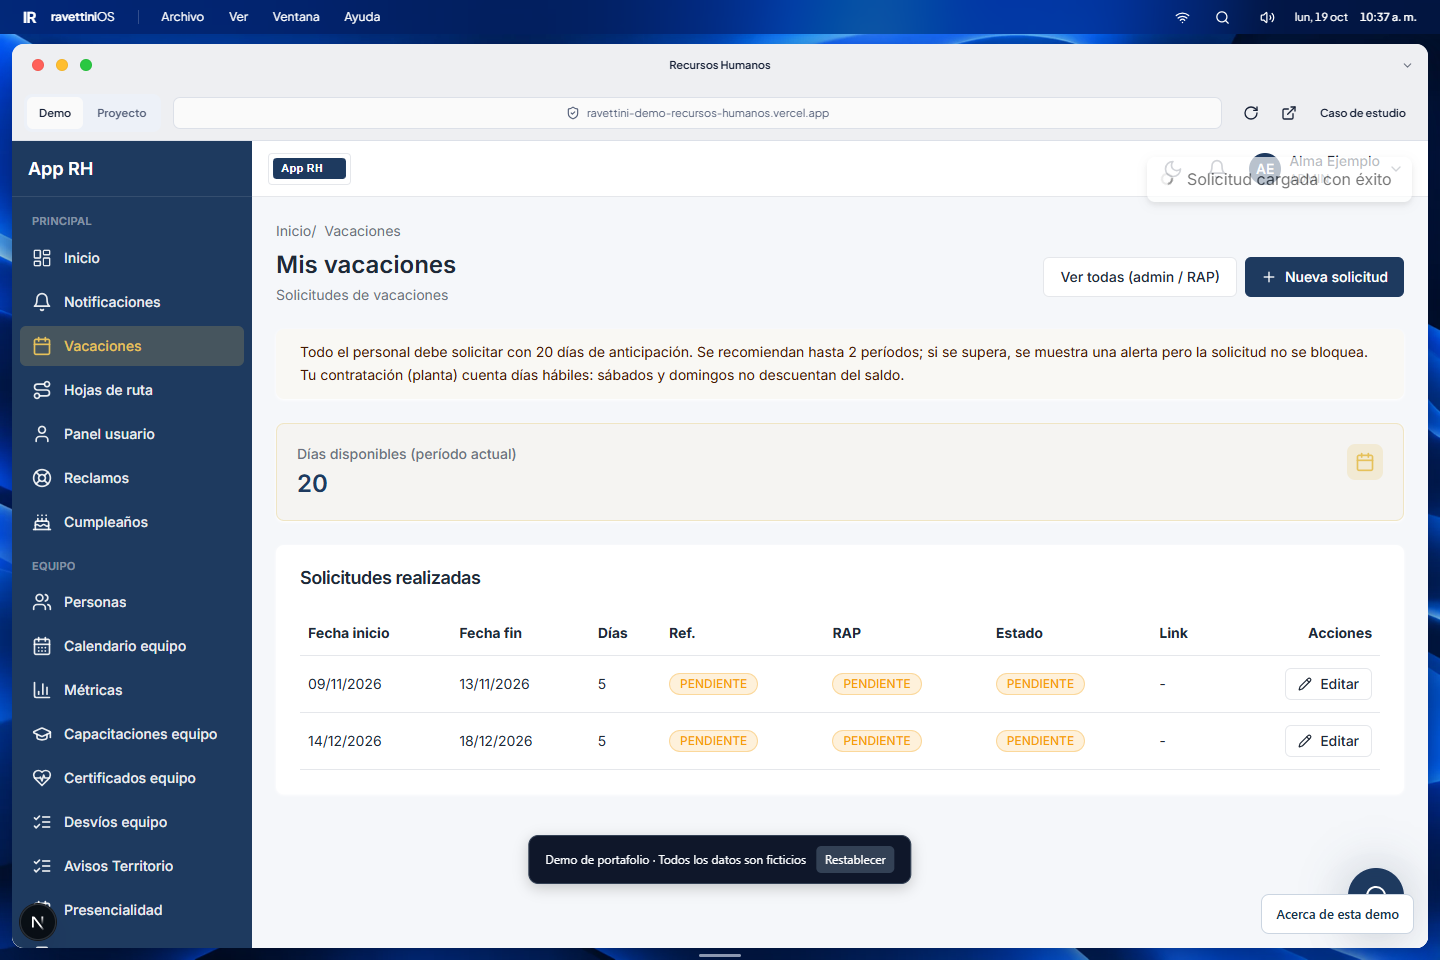
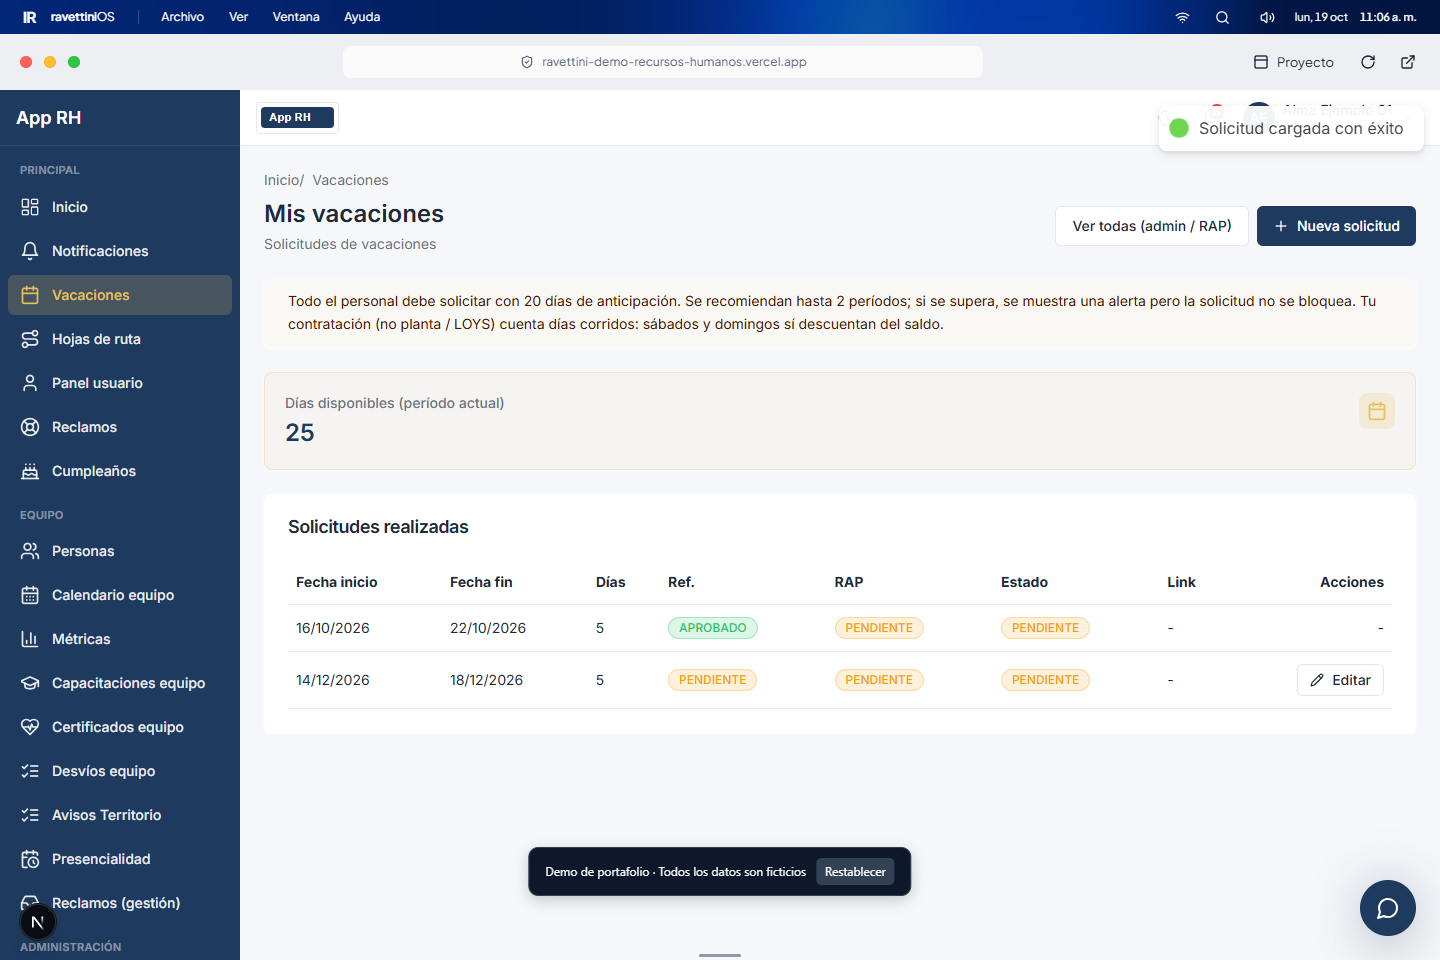
Expand demo browsers with unified macOS window chrome

diff --git a/app/os.css b/app/os.css
@@ -578,49 +578,35 @@
   min-height: 0;
   background: var(--os-surface);
 }
+.os-window--browser .os-window-bar {
+  height: 56px;
+  min-height: 56px;
+  gap: 24px;
+}
+.project-browser-chrome { flex: 1; min-width: 0; }
 .project-browser-toolbar {
   display: flex;
   align-items: center;
-  flex: none;
-  gap: 12px;
-  padding: 8px 12px;
-  border-bottom: 1px solid var(--os-line);
-  background: var(--os-chrome);
-}
-.project-browser-views {
-  display: flex;
-  padding: 3px;
-  gap: 2px;
-  background: var(--os-soft);
-  border-radius: 8px;
-}
-.project-browser-views button {
-  min-height: 32px;
-  padding: 6px 12px;
-  border-radius: 6px;
-  color: var(--os-muted);
-  background: transparent;
-  font-size: 11px;
-  font-weight: 600;
-}
-.project-browser-views button[aria-pressed="true"] {
-  background: var(--os-surface);
-  color: var(--os-ink);
+  justify-content: flex-end;
+  gap: 24px;
+  min-width: 0;
+  pointer-events: none;
 }
 .project-browser-address {
   display: flex;
   flex: 1;
+  max-width: 640px;
   min-width: 0;
   justify-content: center;
   align-items: center;
-  gap: 7px;
-  min-height: 32px;
-  padding: 6px 12px;
-  border: 1px solid var(--os-line);
-  border-radius: 7px;
+  gap: 8px;
+  height: 32px;
+  margin-inline: auto;
+  padding: 0 16px;
+  border-radius: 8px;
   color: var(--os-muted);
   background: var(--os-surface);
-  font-size: 11px;
+  font-size: 12px;
 }
 .project-browser-address svg { flex: none; }
 .project-browser-address span {
@@ -628,26 +614,28 @@
   text-overflow: ellipsis;
   white-space: nowrap;
 }
-.project-browser-actions { display: flex; align-items: center; gap: 4px; }
-.project-browser-icon {
-  display: grid;
-  place-items: center;
-  width: 34px;
-  height: 34px;
+.project-browser-actions {
+  display: flex;
+  flex: none;
+  align-items: center;
+  gap: 4px;
+  pointer-events: auto;
+}
+.project-browser-icon,
+.project-browser-info {
+  display: flex;
+  justify-content: center;
+  align-items: center;
+  height: 36px;
   border-radius: 6px;
   background: transparent;
   color: var(--os-ink);
 }
-.project-browser-case {
-  padding: 8px 10px;
-  border-radius: 6px;
-  color: var(--os-ink);
-  font-size: 11px;
-  font-weight: 600;
-  white-space: nowrap;
-}
+.project-browser-icon { width: 36px; }
+.project-browser-info { gap: 8px; padding-inline: 12px; font-size: 12px; white-space: nowrap; }
 .project-browser-icon:hover,
-.project-browser-case:hover { background: var(--os-soft); }
+.project-browser-info:hover,
+.project-browser-info[aria-pressed="true"] { background: var(--os-soft); }
 .project-browser-viewport {
   position: relative;
   display: flex;
@@ -700,12 +688,11 @@
   }
 }
 @media (max-width: 900px) {
-  .project-browser-toolbar { flex-wrap: wrap; gap: 8px; padding: 8px; }
-  .project-browser-address { order: 3; flex-basis: 100%; min-height: 30px; }
-  .project-browser-actions { margin-left: auto; }
-  .project-browser-views button { min-height: 44px; padding-inline: 10px; }
+  .os-window--browser .os-window-bar { gap: 8px; padding-inline: 8px; }
+  .project-browser-toolbar { gap: 4px; }
+  .project-browser-address { display: none; }
+  .project-browser-info { min-height: 44px; padding-inline: 8px; gap: 6px; }
   .project-browser-icon { width: 44px; height: 44px; }
-  .project-browser-case { display: none; }
   .project-browser-notice { gap: 8px; }
   .project-browser-notice button, .project-browser-notice a { padding-block: 8px; }
 }
@@ -2189,4 +2176,25 @@
 }
 .desktop-app--dragging {
   opacity: 0.85;
+}
+
+/* Demo browsers use the entire workspace below the system menu. */
+.os-desktop .os-window--browser.os-window--maximized {
+  top: 34px !important;
+  left: 0 !important;
+  right: 0 !important;
+  bottom: 0 !important;
+  width: 100% !important;
+  height: auto !important;
+  max-height: none !important;
+  border-radius: 0;
+  border: 0;
+}
+@media (max-width: 900px) {
+  .os-desktop .os-window--browser,
+  .os-desktop .os-window--browser.os-window--maximized {
+    inset: 38px 0 0 !important;
+    width: 100% !important;
+    border-radius: 0;
+  }
 }

diff --git a/components/desktop/project-browser.tsx b/components/desktop/project-browser.tsx
@@ -1,7 +1,7 @@
 "use client";
 
-import { ExternalLink, Globe2, RotateCw, ShieldCheck } from "lucide-react";
-import Link from "next/link";
+import { ExternalLink, Globe2, RotateCw, ShieldCheck, PanelTop } from "lucide-react";
+import { createPortal } from "react-dom";
 import { type ReactNode, useEffect, useState } from "react";
 import { type Project } from "@/lib/projects";
 
@@ -19,6 +19,11 @@ export function ProjectBrowser({
   const [loading, setLoading] = useState(true);
   const [delayed, setDelayed] = useState(false);
   const [failed, setFailed] = useState(false);
+  const [chromeHost, setChromeHost] = useState<HTMLElement | null>(null);
+
+  useEffect(() => {
+    setChromeHost(document.getElementById(`browser-chrome-${project.slug}`));
+  }, [project.slug]);
 
   useEffect(() => {
     if (!loading) return;
@@ -33,22 +38,21 @@ export function ProjectBrowser({
     setRevision((value) => value + 1);
   };
 
-  return (
-    <div className="project-browser">
+  const toolbar = (
       <nav className="project-browser-toolbar" aria-label={`Navegador de ${project.title}`}>
-        <div className="project-browser-views" aria-label="Vista del proyecto">
-          <button aria-pressed={view === "demo"} onClick={() => setView("demo")}>
-            Demo
-          </button>
-          <button aria-pressed={view === "project"} onClick={() => setView("project")}>
-            Proyecto
-          </button>
-        </div>
         <div className="project-browser-address" title={url}>
           <ShieldCheck size={14} aria-hidden="true" />
           <span>{new URL(url).hostname}</span>
         </div>
         <div className="project-browser-actions">
+          <button
+            className="project-browser-info"
+            aria-pressed={view === "project"}
+            onClick={() => setView(view === "demo" ? "project" : "demo")}
+          >
+            <PanelTop size={16} aria-hidden="true" />
+            {view === "demo" ? "Proyecto" : "Volver a demo"}
+          </button>
           <button
             className="project-browser-icon"
             aria-label="Recargar demo desde el inicio"
@@ -67,13 +71,13 @@ export function ProjectBrowser({
           >
             <ExternalLink size={16} aria-hidden="true" />
           </a>
-          {project.hasDetailPage && (
-            <Link className="project-browser-case" href={`/proyectos/${project.slug}`}>
-              Caso de estudio
-            </Link>
-          )}
         </div>
       </nav>
+  );
+
+  return (
+    <div className="project-browser">
+      {chromeHost ? createPortal(toolbar, chromeHost) : toolbar}
       <div className="project-browser-viewport" hidden={view !== "demo"}>
         {loading && !delayed && !failed && (
           <div className="project-browser-loading" role="status">

diff --git a/components/desktop/desktop.tsx b/components/desktop/desktop.tsx
@@ -63,7 +63,7 @@ type AppWindow = {
 const newWindow = (id: string): AppWindow => ({
   id,
   minimized: false,
-  maximized: false,
+  maximized: projects.some((project) => project.slug === id && project.href.startsWith("/demos/")),
 });
 const iconPositionsKey = "ravettini-os-icon-positions";
 function defaultIconPositions(width: number, height: number): IconPositions {
@@ -1161,7 +1161,7 @@ export function Desktop({
                     drag.current = null;
                   }}
                   onDoubleClick={(e) => {
-                    if (!(e.target as HTMLElement).closest("button"))
+                    if (!(e.target as HTMLElement).closest("button,a"))
                       setWindows((prev) =>
                         prev.map((w) =>
                           w.id === win.id
@@ -1208,14 +1208,20 @@ export function Desktop({
                       <Maximize2 size={8} />
                     </button>
                   </div>
-                  <span className="window-title">
-                    {win.id === "welcome"
-                      ? "Notas"
-                      : applicationIcons[win.id]?.label}
-                  </span>
-                  <span className="window-bar-tail">
-                    <ChevronDown size={13} />
-                  </span>
+                  {isDemoProject ? (
+                    <div className="project-browser-chrome" id={`browser-chrome-${win.id}`} />
+                  ) : (
+                    <>
+                      <span className="window-title">
+                        {win.id === "welcome"
+                          ? "Notas"
+                          : applicationIcons[win.id]?.label}
+                      </span>
+                      <span className="window-bar-tail">
+                        <ChevronDown size={13} />
+                      </span>
+                    </>
+                  )}
                 </header>
                 <div className={`os-window-content${isDemoProject ? " os-window-content--browser" : ""}`}>{renderApp(win.id)}</div>
               </section>

diff --git a/.impeccable/surfaces/app-page-tsx.md b/.impeccable/surfaces/app-page-tsx.md
@@ -25,7 +25,7 @@ FINISH: unreviewed and undocumented is unfinished; this build ends with the fini
 
 ## Live project browser extension
 
-The user approved interactive demos inside project windows, replacing the enlarged screenshot as their default view. Five public, sanitized demos now open in a browser with Demo/Proyecto views, the configured hostname, reload, a new-tab link and case-study access. Switching views or minimizing preserves the live iframe; closing removes it. Other projects and full case studies retain their presentation. The browser follows the existing window chrome and responsive sheet, with usable desktop dimensions and a wrapping mobile toolbar. Captures in `.impeccable/review/project-browser-desktop.png` and `project-browser-mobile.png` document the actual result.
+The user approved interactive demos inside project windows. Five sanitized demos open maximized, edge-to-edge beneath the system menu, with one 56px unified macOS-style titlebar containing traffic lights, hostname, project toggle, reload and new-tab action. The green control restores a draggable floating browser without remounting the iframe. Project details retain the case-study link. Mobile omits the hostname and keeps 44px toolbar targets in the same single row. View switching and minimizing preserve navigation and forms; closing removes the iframe. Other projects and full case studies retain their presentation. Captures in `.impeccable/review/project-browser-desktop.png` and `project-browser-mobile.png` document the actual result.
 
 ## Startup and window-control extension
 

diff --git a/DESIGN.md b/DESIGN.md
@@ -350,3 +350,8 @@ The system menu offers Cambiar usuario, which returns to selection while preserv
 - **Don't** restore the superseded editorial direction from `idea.md`.
 - **Don't** invent clients, experience, metrics or project previews.
 - **Don't** make minimized windows lose their local state.
+
+
+### Unified demo browser
+
+Demo apps launch maximized, filling the workspace below the 34px system menu (38px on mobile). A single 56px titlebar groups native traffic lights, a centered hostname, Proyecto/Volver a demo, reload and new-tab controls. The presentation retains case-study access. Mobile hides the hostname and uses 44px action targets. The iframe receives the remaining viewport without scaling or margins. Green restores the existing floating window; navigation and form state remain mounted through resize, view changes and minimize. The dock keeps its existing reveal behavior. Other application windows retain their established geometry.
